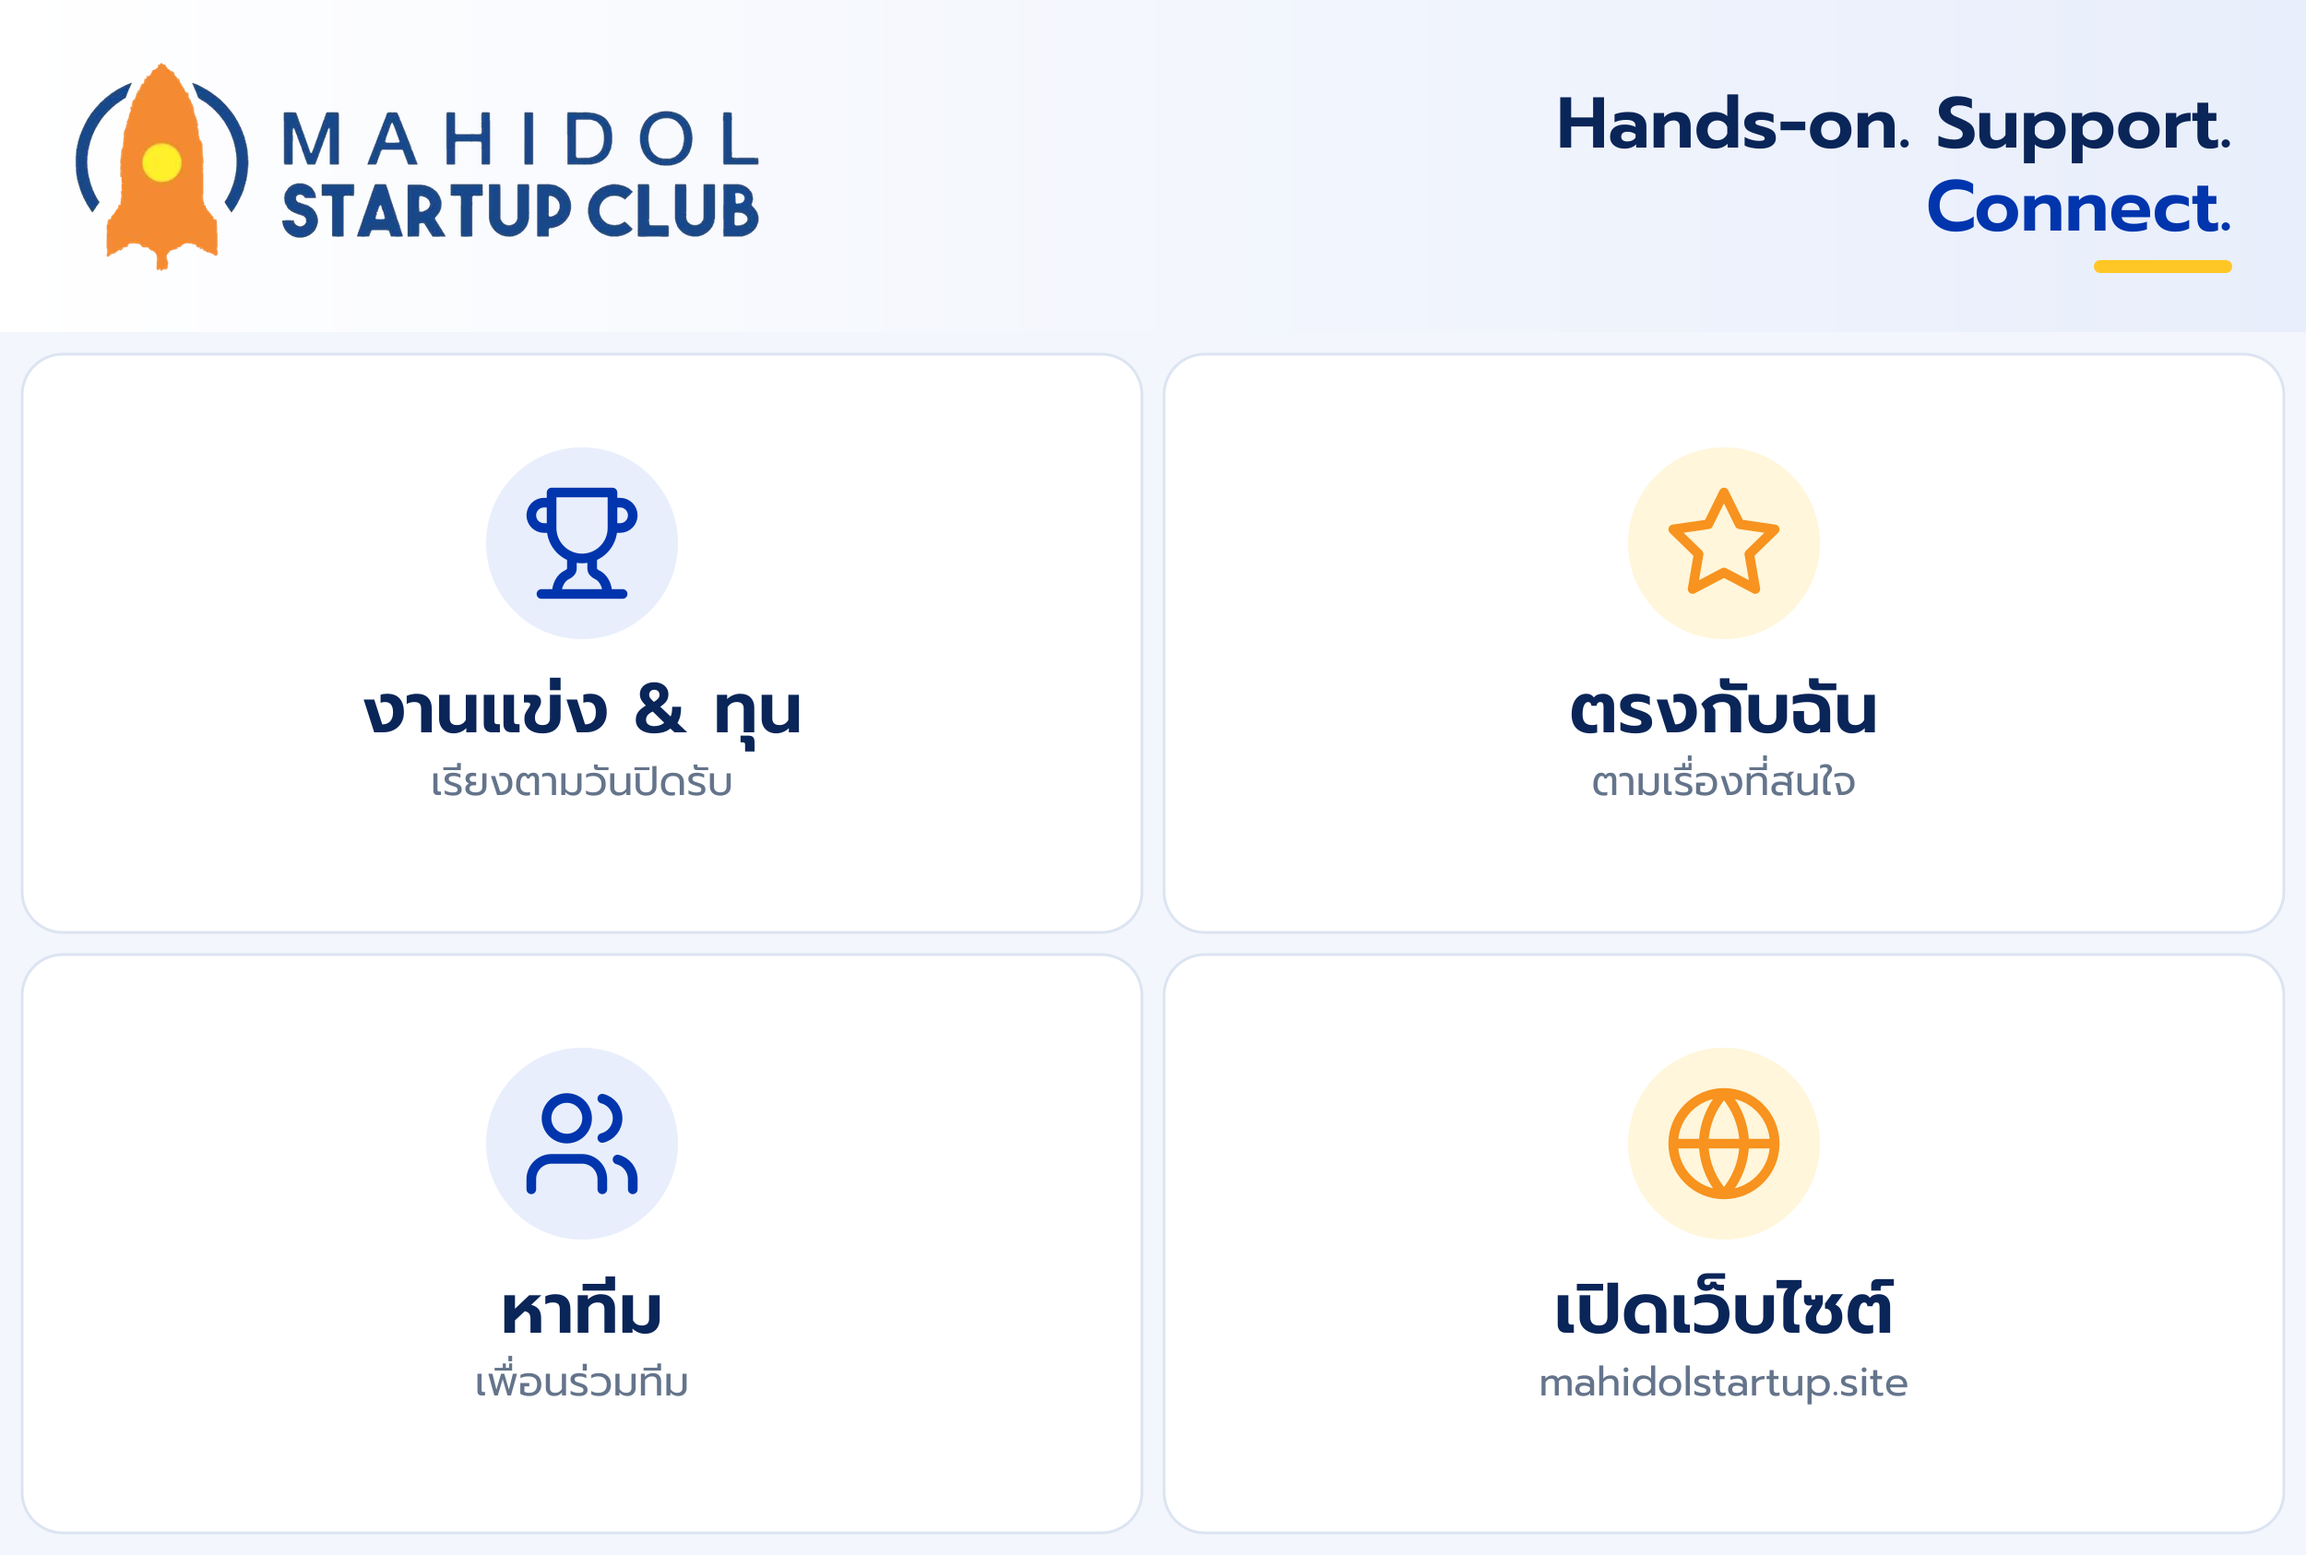
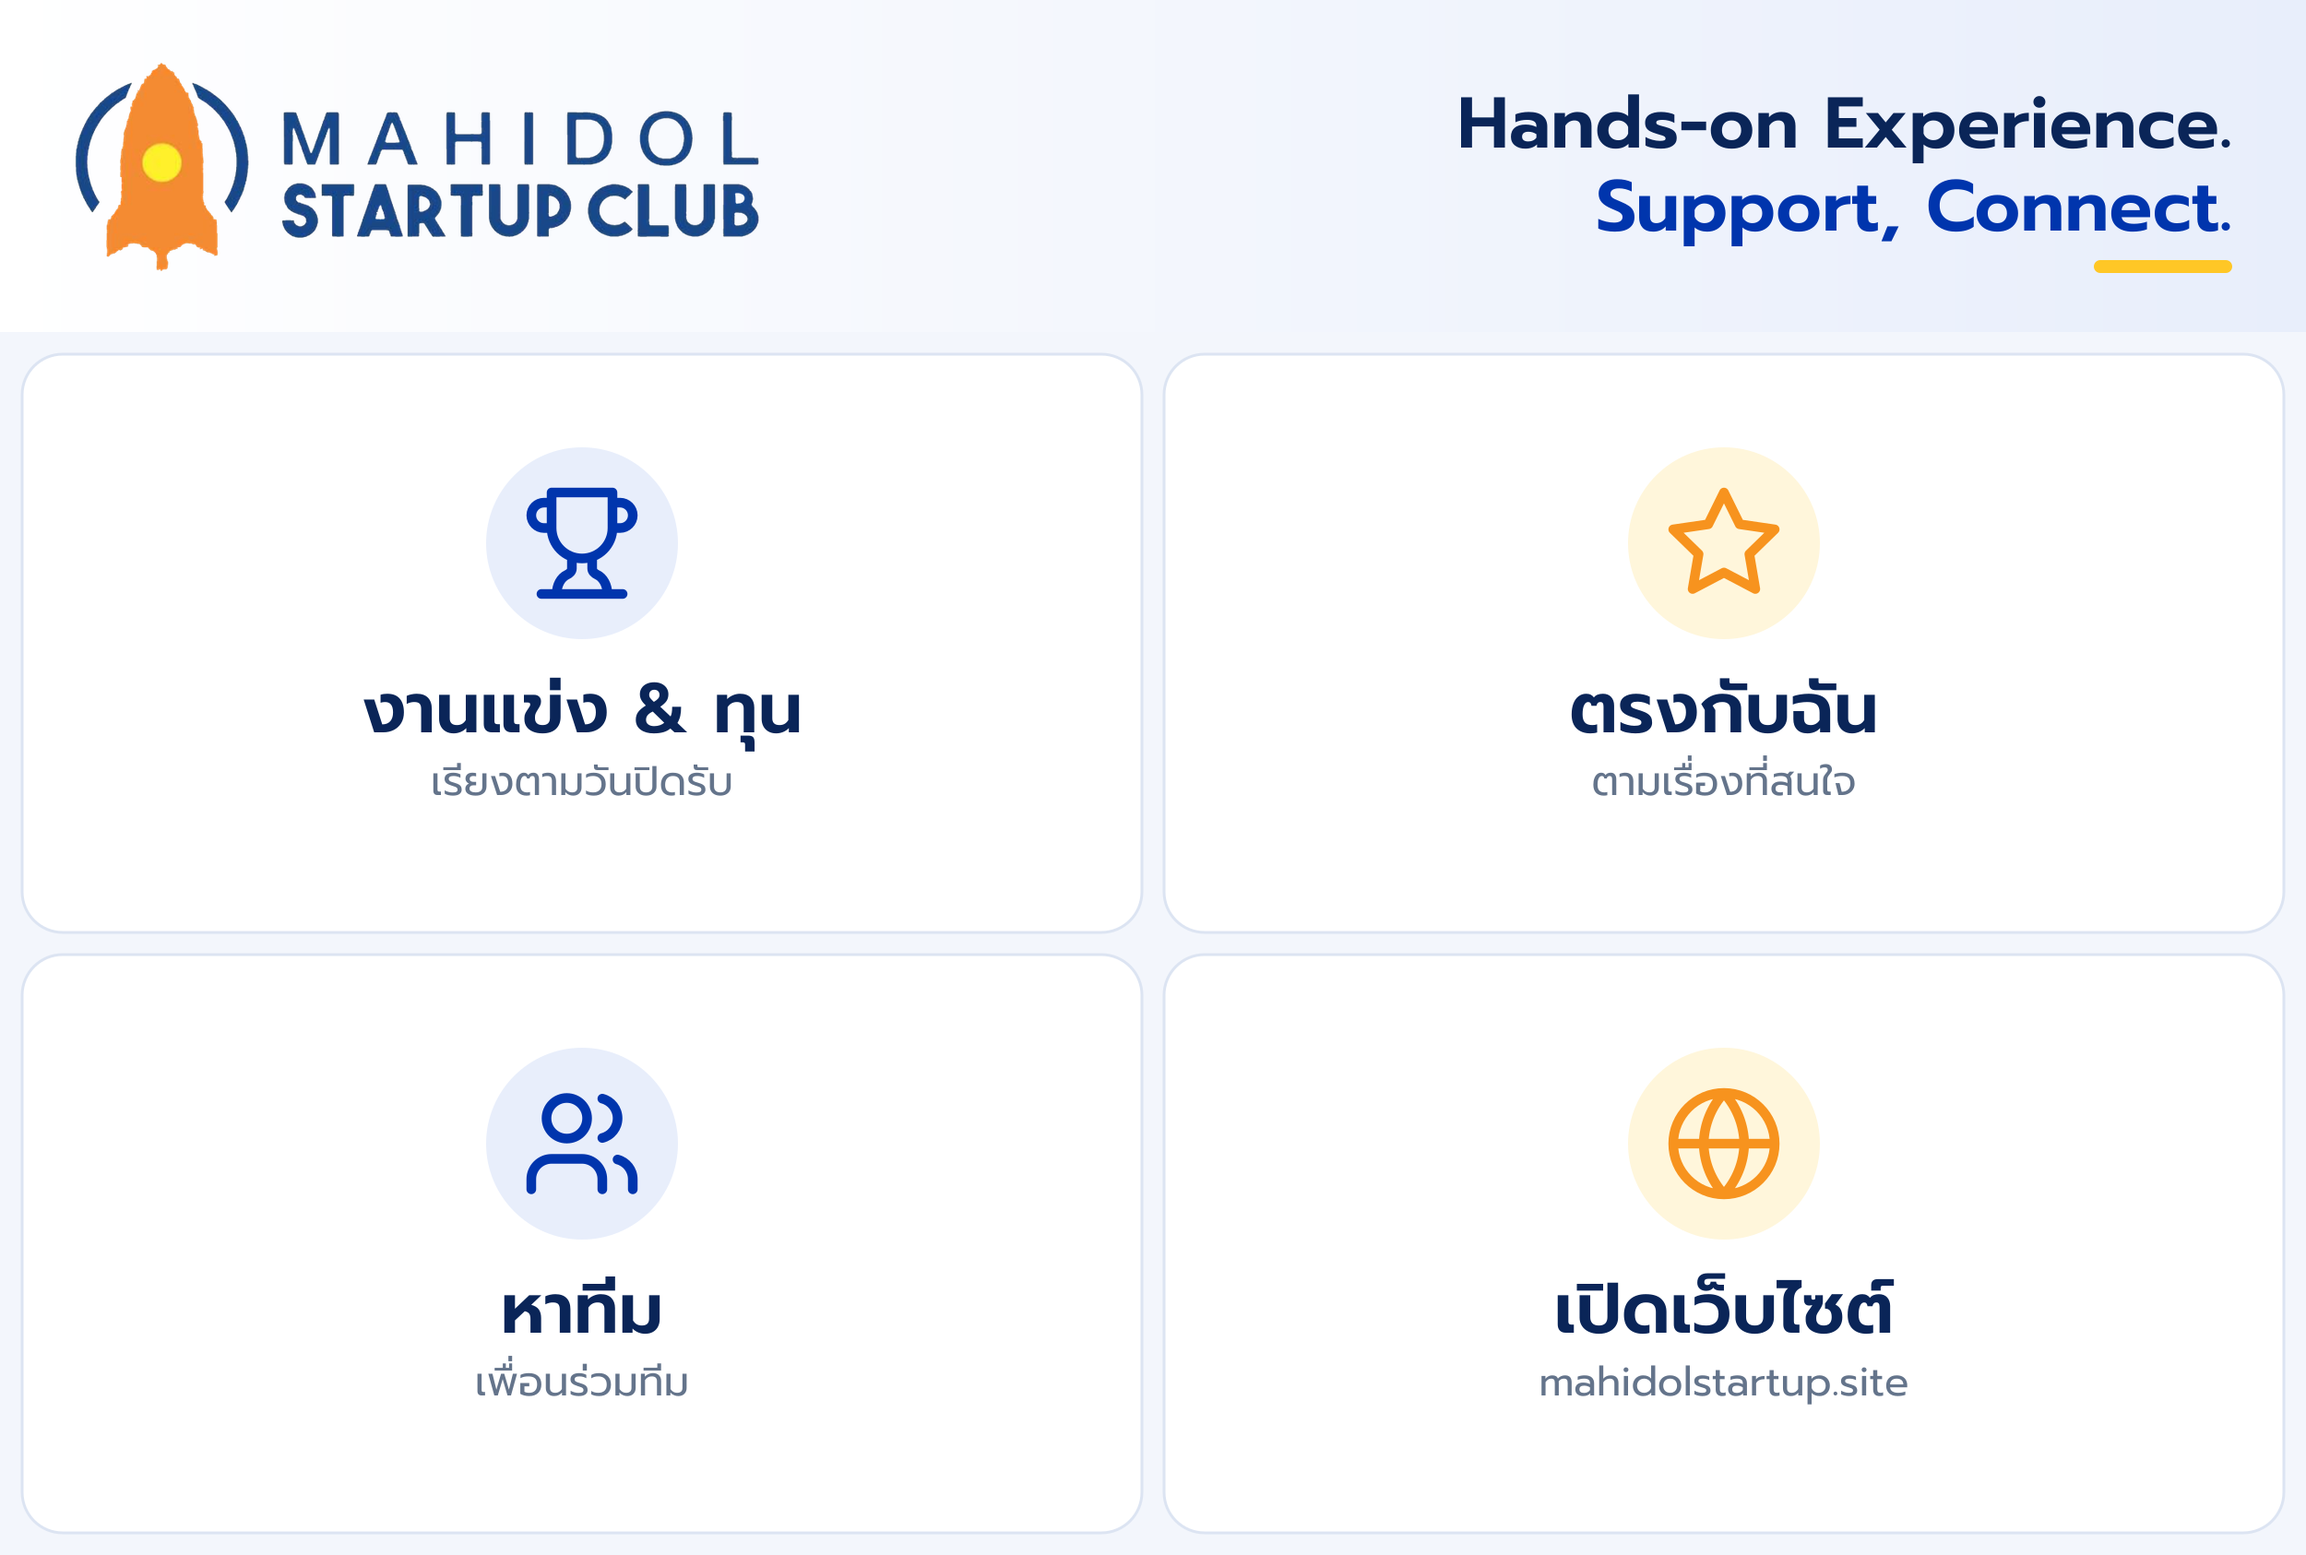
Mantra headline: 'Hands-on Experience. / Support, Connect.' in two balanced lines
Each line stays on one line and scales with the viewport (fits 360px phones to desktop);
same wording in the LINE welcome image and rich-menu banner.

Changed region(s): [[0.624, 0.0617, 0.9672, 0.1542]]

diff --git a/src/app/(site)/page.tsx b/src/app/(site)/page.tsx
@@ -48,10 +48,9 @@ export default async function HomePage() {
         <div className="inner">
           <div style={{ flex: '1 1 520px', minWidth: 0, display: 'flex', flexDirection: 'column', gap: 24 }}>
             <span className="eyebrow">สนับสนุนโดย iNT มหาวิทยาลัยมหิดล</span>
-            <h1>
-              Hands-on. Support.
-              <br />
-              <span>Connect.</span>
+            <h1 className="mantra">
+              <span className="line">Hands-on Experience.</span>
+              <span className="line accent">Support, Connect.</span>
             </h1>
             <p style={{ margin: 0, maxWidth: 560, fontSize: 17, color: 'var(--muted)' }}>
               ชมรมสตาร์ตอัพมหาวิทยาลัยมหิดล สำหรับคนที่อยากลงมือทำจริง มีคนซัพพอร์ต และได้เจอเพื่อนร่วมทาง

diff --git a/src/app/login/page.tsx b/src/app/login/page.tsx
@@ -38,10 +38,9 @@ export default async function LoginPage({ searchParams }: PageProps<'/login'>) {
             height={380}
             style={{ width: '100%', maxWidth: 380, height: 'auto', alignSelf: 'center', filter: 'drop-shadow(0 20px 40px rgba(0,0,0,0.25))' }}
           />
-          <h1>
-            Hands-on. Support.
-            <br />
-            <span>Connect.</span>
+          <h1 className="mantra">
+            <span className="line">Hands-on Experience.</span>
+            <span className="line accent">Support, Connect.</span>
           </h1>
           <div className="bullets">
             {['หางานแข่ง ทุน และโครงการบ่มเพาะในที่เดียว', 'เจอทีมและ co-founder ที่สกิลเสริมกัน', 'แจ้งเตือนผ่าน LINE ทันทีเมื่อมีคนชวนเข้าทีม'].map((t) => (

diff --git a/src/app/layout.tsx b/src/app/layout.tsx
@@ -9,7 +9,7 @@ const plex = IBM_Plex_Sans_Thai({ subsets: ['thai', 'latin'], weight: ['400', '5
 
 export const metadata: Metadata = {
   metadataBase: new URL(process.env.NEXT_PUBLIC_SITE_URL || 'http://localhost:3000'),
-  title: { default: 'Mahidol Startup Club — Hands-on. Support. Connect.', template: '%s · Mahidol Startup Club' },
+  title: { default: 'Mahidol Startup Club — Hands-on Experience. Support, Connect.', template: '%s · Mahidol Startup Club' },
   description: 'ชมรมสตาร์ตอัพมหาวิทยาลัยมหิดล หางานแข่ง ทุน ทีม และ co-founder ในที่เดียว พิมพ์สิ่งที่อยากทำ แล้วให้ AI พาไปเจอสิ่งที่ใช่',
   openGraph: { images: ['/assets/hero-connect.png'], locale: 'th_TH', type: 'website' },
   icons: { icon: '/assets/partners/msc.png' },

diff --git a/src/app/globals.css b/src/app/globals.css
@@ -675,3 +675,10 @@ dl.kv dd { margin: 0; font-weight: 600; }
   .cta-block { display: flex; justify-content: space-between; width: 100%; margin-top: 22px; min-height: 58px; font-size: 17px; }
 }
 @media (prefers-reduced-motion: reduce) { .cta-link, .cta-link .arrow { transition: none; } }
+
+/* Club mantra headline: two balanced lines, each kept on one line and sized to fit */
+h1.mantra { display: flex; flex-direction: column; align-items: flex-start; gap: 0.06em; font-size: min(56px, 8.2vw); line-height: 1.12; letter-spacing: -0.01em; }
+h1.mantra .line { white-space: nowrap; color: inherit; }
+.hero h1.mantra .accent { color: var(--brand); }
+.login-brand h1.mantra { font-size: min(46px, 7.6vw); }
+.login-brand h1.mantra .accent { color: var(--yellow); }
